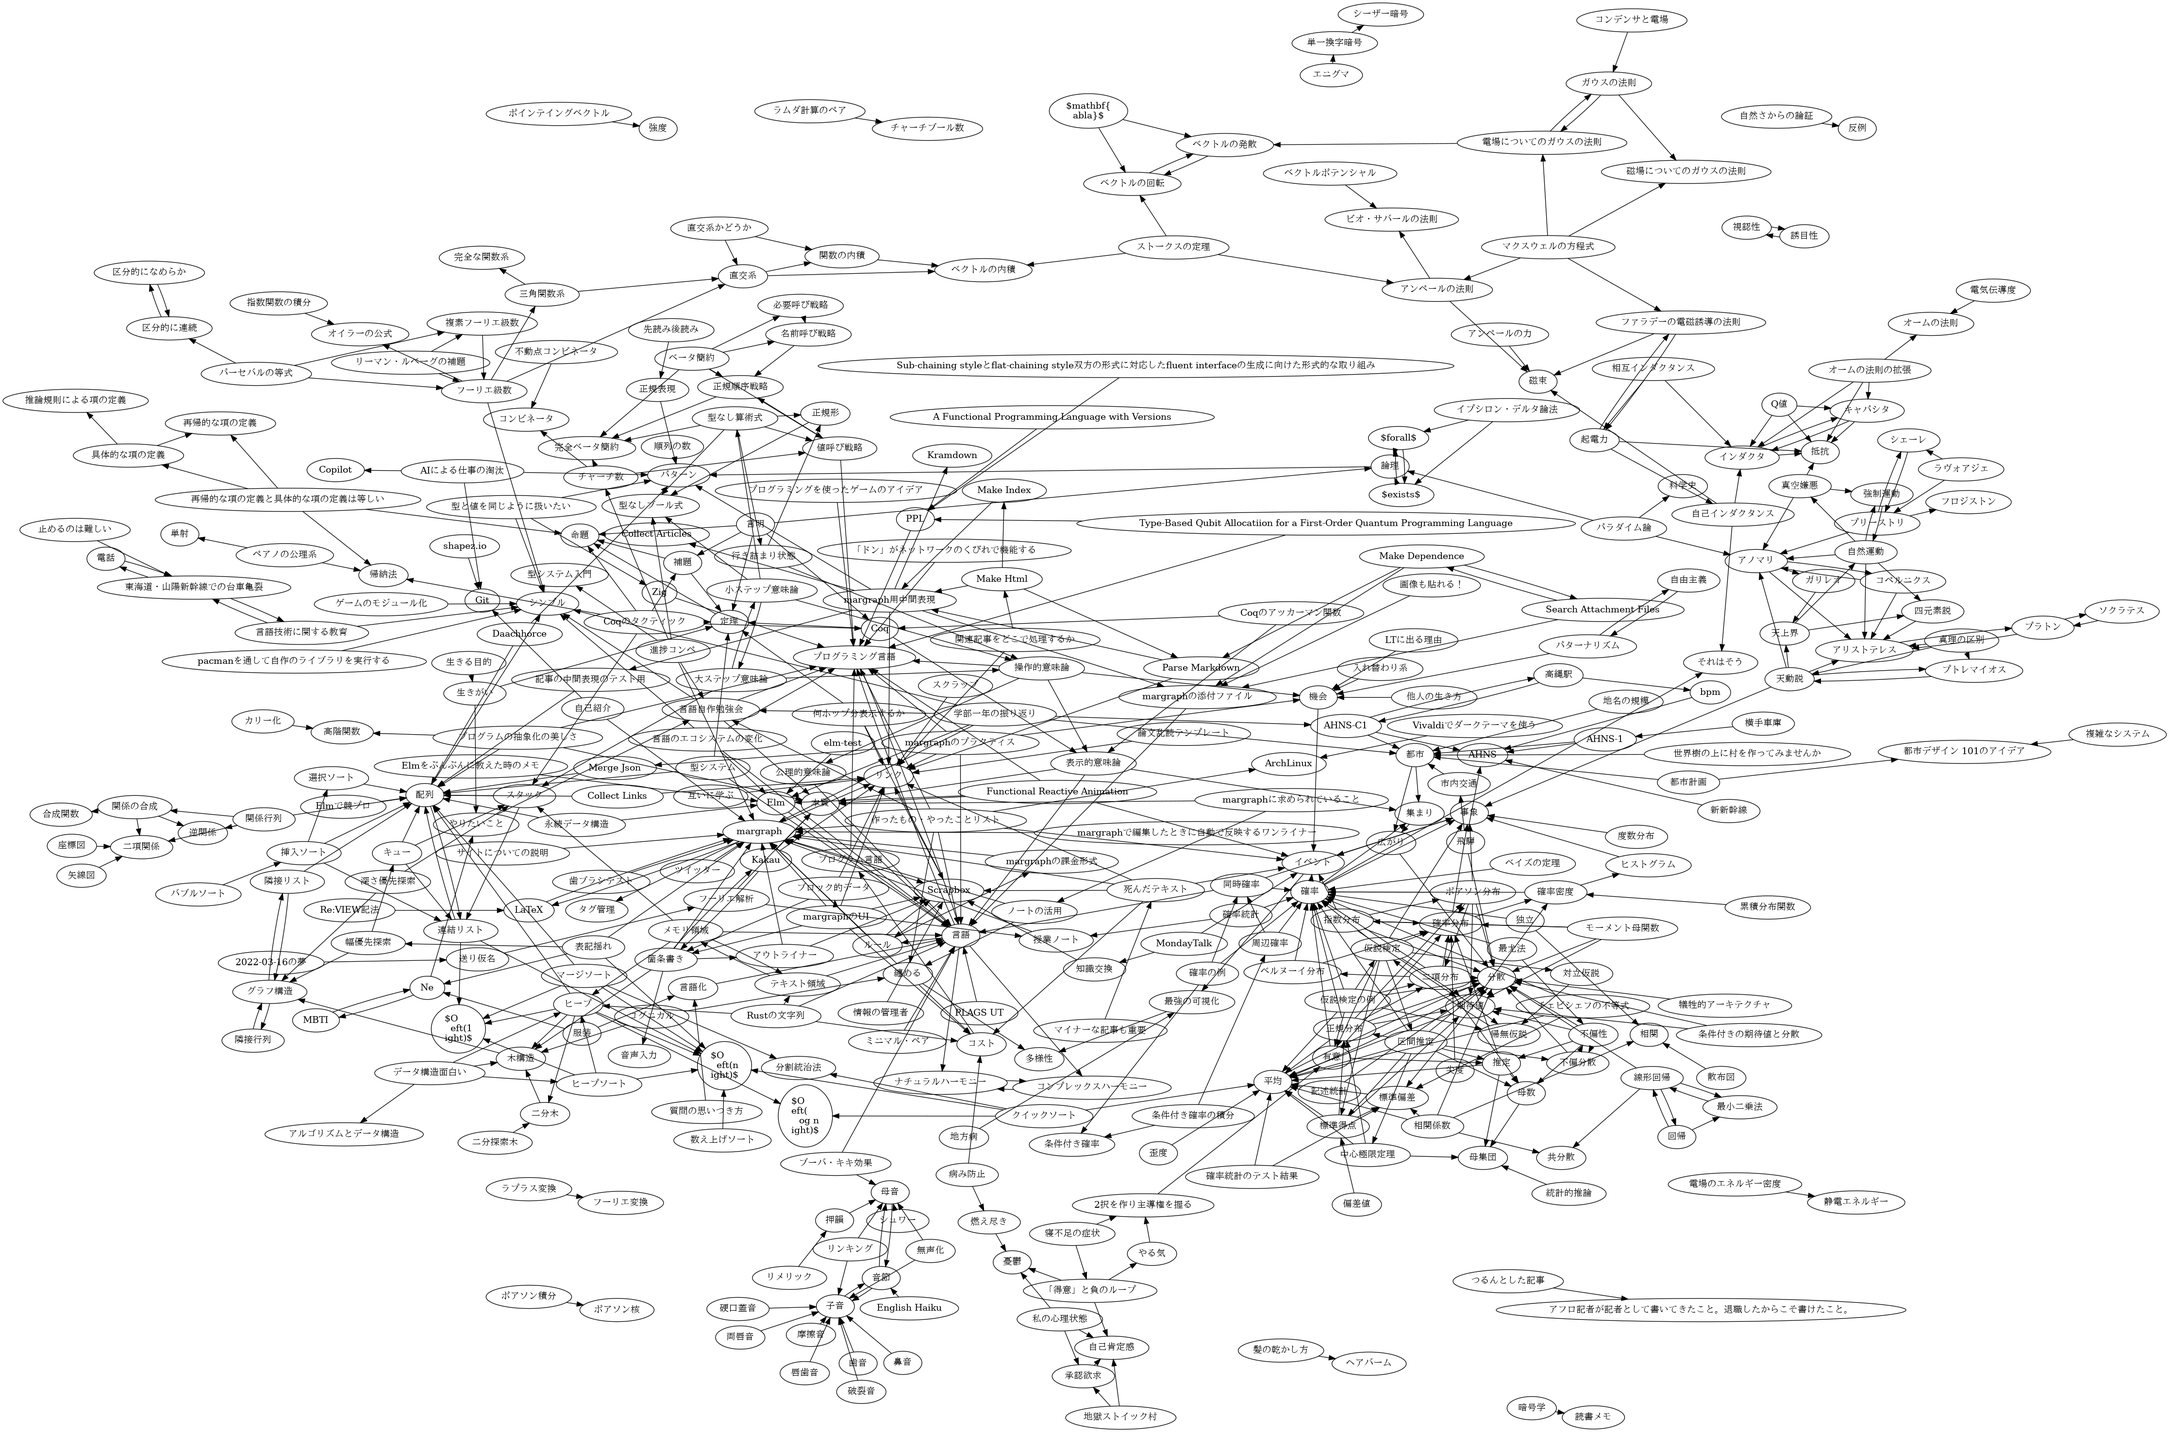
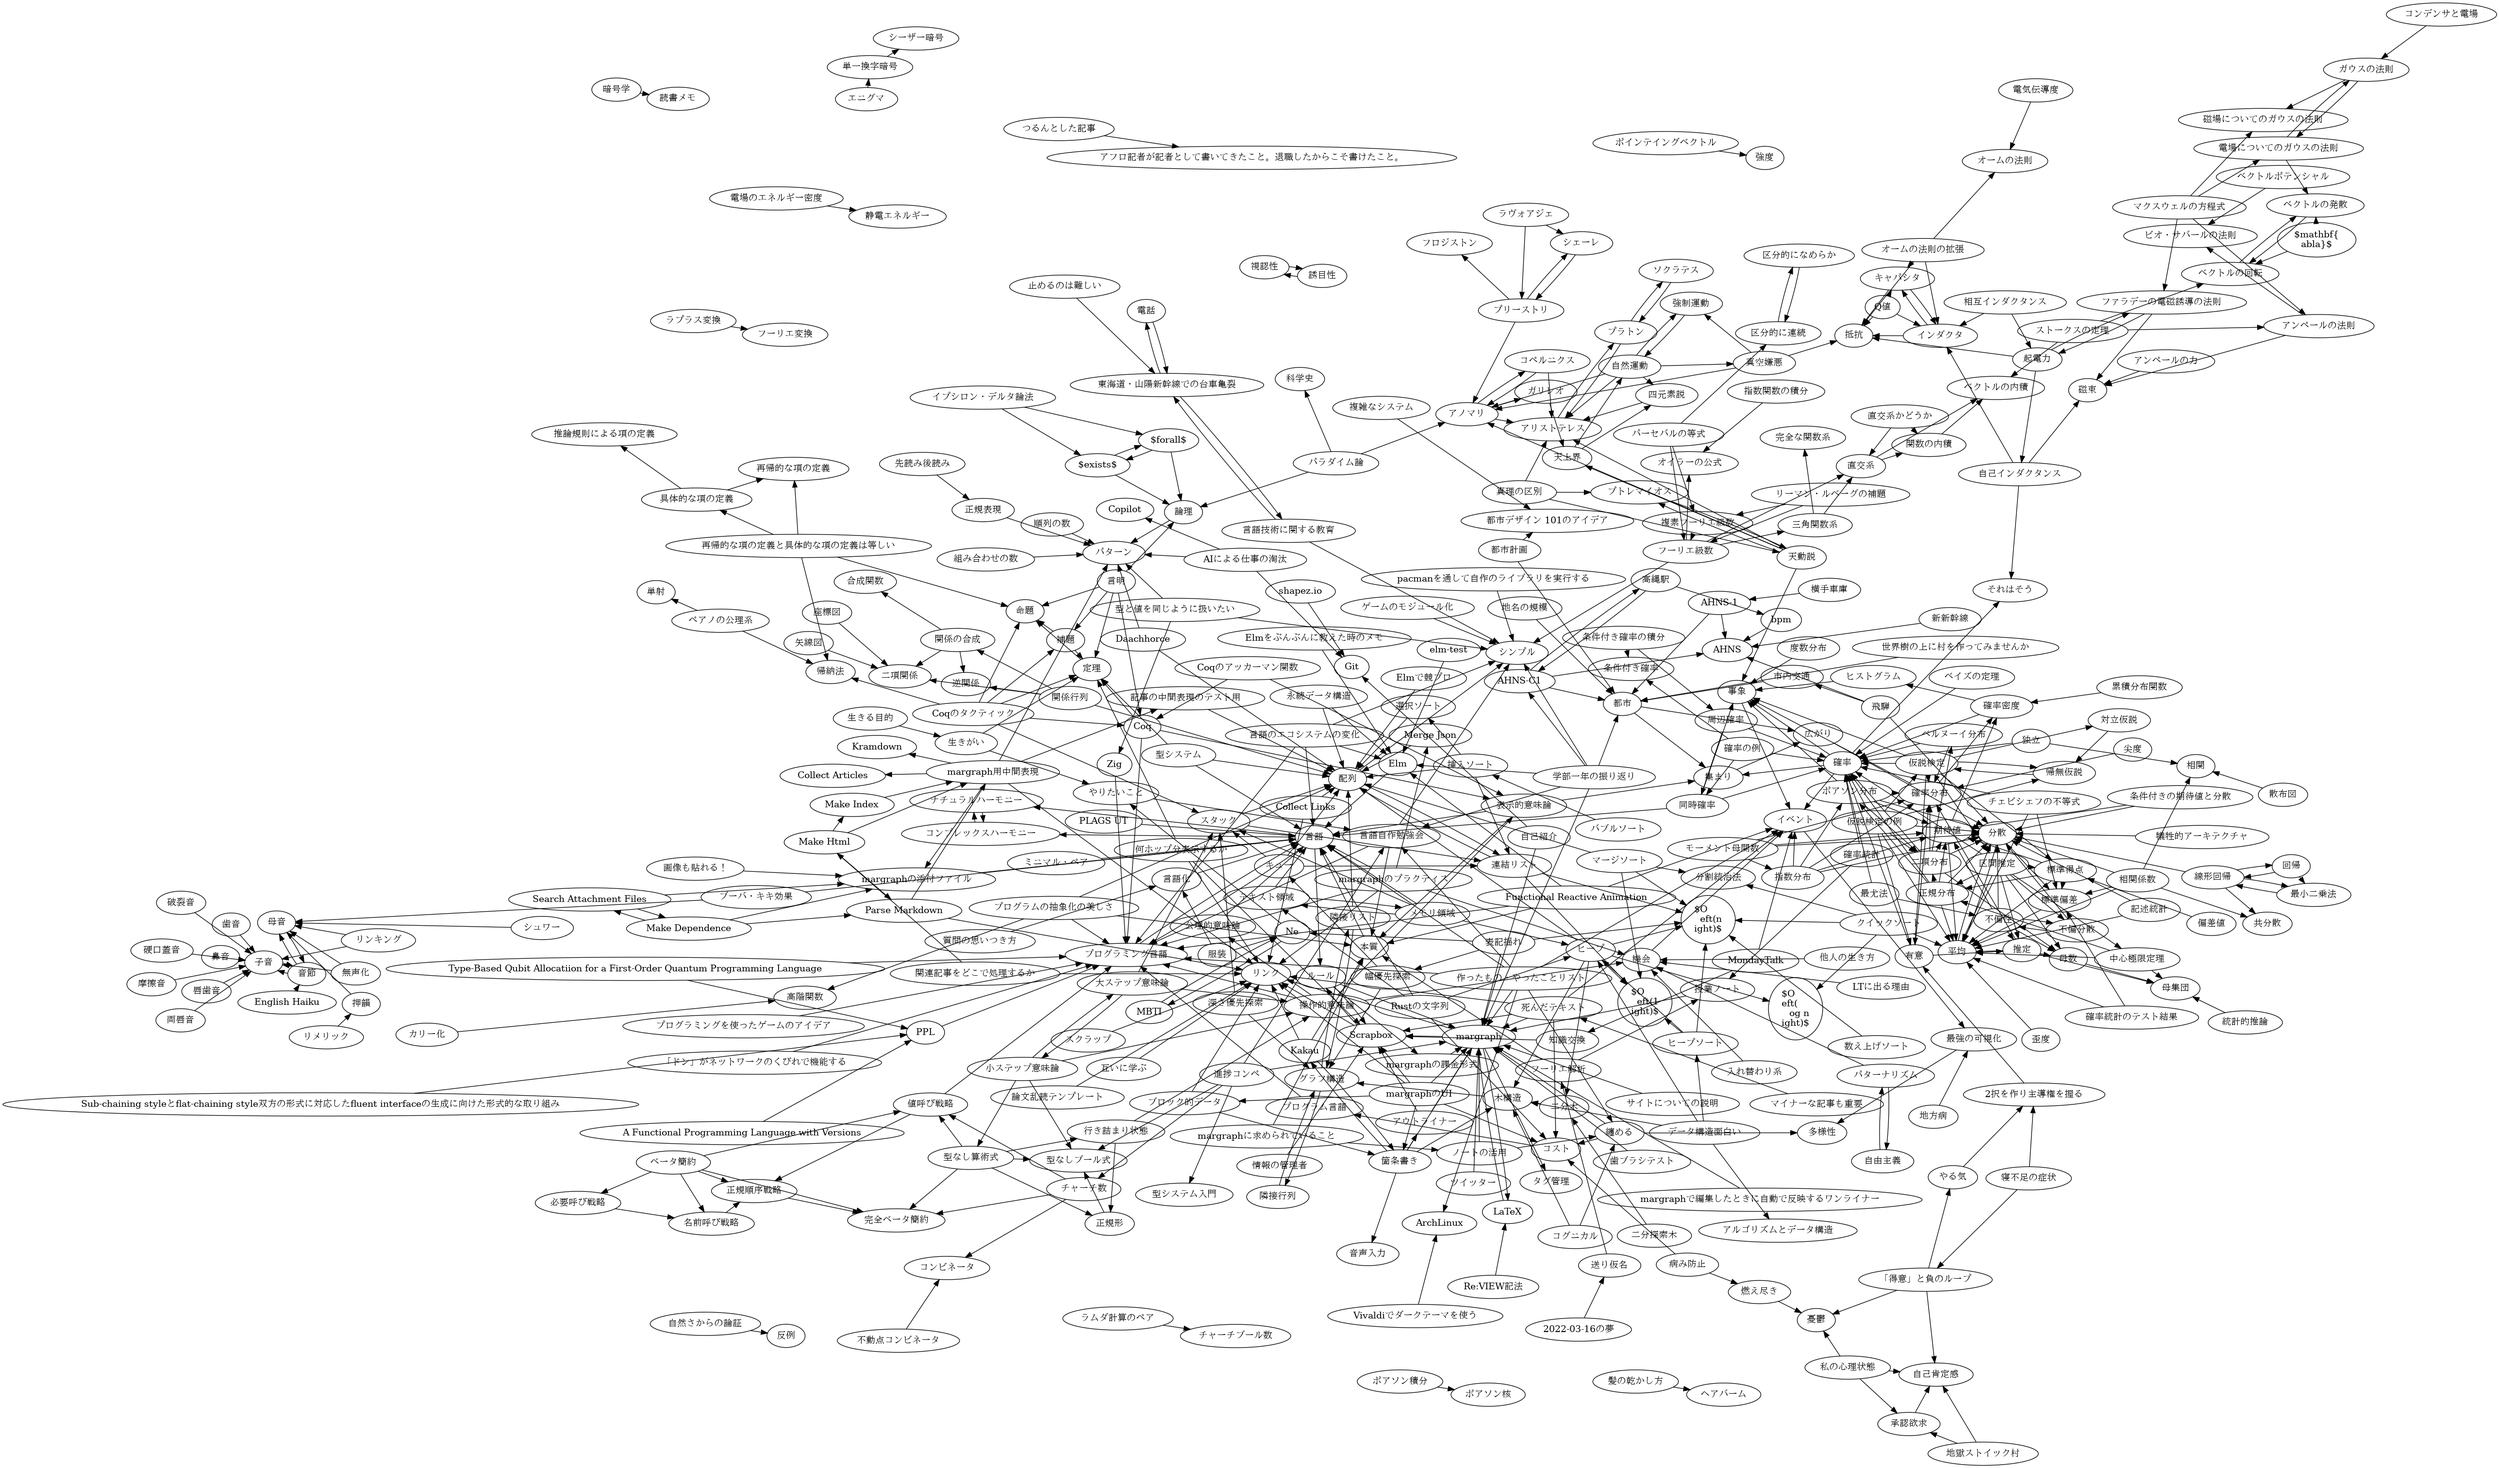
deploy: 5a8c458e684ae3f5186445241f8b9c1ca98c61d3

diff --git a/math/combination.html b/math/combination.html
@@ -33,7 +33,11 @@
         
             
               <div><ul>
-  <li>$_nC_r = \dfrac{n(n-1)(n-2) \cdots (n-r+1)}{1 \cdot 2 \cdots (r-1) \cdot r}$</li>
+  <li>n個あるものの中から順序を考えずr個取り出す<a href="../other/pattern.html">パターン</a>の数を数える
+    <ul>
+      <li>$_nC_r = \dfrac{n(n-1)(n-2) \cdots (n-r+1)}{1 \cdot 2 \cdots (r-1) \cdot r}$</li>
+    </ul>
+  </li>
   <li>二項係数とも呼ばれる</li>
   <li>パスカルの三角形の値はこれでも計算できる</li>
 </ul>
@@ -81,6 +85,81 @@
 
       
       <div class="link-network">
+        
+          <div class="row flex-nowrap overflow-auto">
+            <div class="col-4">
+              <div class="card h-100">
+                <div class="card-body">
+                  <h5 class="card-title fs-6"><a href="../other/pattern.html">パターン</a></h5>
+                  <p class="card-text">- 完全なパターンになったデザインを見た時、人は詳しくは見ない...</p>
+                </div>
+              </div>
+            </div>
+            
+              <div class="col-4">
+                <div class="card h-100">
+                  <div class="card-body">
+                    <h5 class="card-title fs-6"><a href="../long-tweets/2021-10-09.html">AIによる仕事の淘汰</a></h5>
+                    <p class="card-text">(Github Copilotを見て) うーん、仕事が無くなる...</p>
+                  </div>
+                </div>
+              </div>
+            
+              <div class="col-4">
+                <div class="card h-100">
+                  <div class="card-body">
+                    <h5 class="card-title fs-6"><a href="../margraph/design/110-intermediate-representation.html">margraph用中間表現</a></h5>
+                    <p class="card-text">工数は増えるけれど、これは疎結合・高凝縮性の確保のために必要な...</p>
+                  </div>
+                </div>
+              </div>
+            
+              <div class="col-4">
+                <div class="card h-100">
+                  <div class="card-body">
+                    <h5 class="card-title fs-6"><a href="../math/losistics.html">論理</a></h5>
+                    <p class="card-text">- $A \land B$   - AかつB   - Aが成り...</p>
+                  </div>
+                </div>
+              </div>
+            
+              <div class="col-4">
+                <div class="card h-100">
+                  <div class="card-body">
+                    <h5 class="card-title fs-6"><a href="../math/permutation.html">順列の数</a></h5>
+                    <p class="card-text">- $_nP_r  n(n-1)(n-2) \cdots (n...</p>
+                  </div>
+                </div>
+              </div>
+            
+              <div class="col-4">
+                <div class="card h-100">
+                  <div class="card-body">
+                    <h5 class="card-title fs-6"><a href="../programming/daachhorce.html">Daachhorce</a></h5>
+                    <p class="card-text">- ダークホース https://tech.legalforc...</p>
+                  </div>
+                </div>
+              </div>
+            
+              <div class="col-4">
+                <div class="card h-100">
+                  <div class="card-body">
+                    <h5 class="card-title fs-6"><a href="../programming/regexp.html">正規表現</a></h5>
+                    <p class="card-text">- 文字列を検索するために使う - 便利なので皆覚えよう！ -...</p>
+                  </div>
+                </div>
+              </div>
+            
+              <div class="col-4">
+                <div class="card h-100">
+                  <div class="card-body">
+                    <h5 class="card-title fs-6"><a href="../programming/type-and-value.html">型と値を同じように扱いたい</a></h5>
+                    <p class="card-text">- 型と値を同じように扱いたい   - よりシンプルに、抽象化...</p>
+                  </div>
+                </div>
+              </div>
+            
+          </div>
         
       </div>
       

diff --git a/other/pattern.html b/other/pattern.html
@@ -217,6 +217,18 @@
             <div class="col-4">
               <div class="card h-100">
                 <div class="card-body">
+                  <h5 class="card-title fs-6"><a href="../math/combination.html">組み合わせの数</a></h5>
+                  <p class="card-text">- n個あるものの中から順序を考えずr個取り出すパターンの数を...</p>
+                </div>
+              </div>
+            </div>
+            
+          </div>
+        
+          <div class="row flex-nowrap overflow-auto">
+            <div class="col-4">
+              <div class="card h-100">
+                <div class="card-body">
                   <h5 class="card-title fs-6"><a href="../math/losistics.html">論理</a></h5>
                   <p class="card-text">- $A \land B$   - AかつB   - Aが成り...</p>
                 </div>

diff --git a/margraph/design/110-intermediate-representation.html b/margraph/design/110-intermediate-representation.html
@@ -266,6 +266,15 @@
               <div class="col-4">
                 <div class="card h-100">
                   <div class="card-body">
+                    <h5 class="card-title fs-6"><a href="../../math/combination.html">組み合わせの数</a></h5>
+                    <p class="card-text">- n個あるものの中から順序を考えずr個取り出すパターンの数を...</p>
+                  </div>
+                </div>
+              </div>
+            
+              <div class="col-4">
+                <div class="card h-100">
+                  <div class="card-body">
                     <h5 class="card-title fs-6"><a href="../../math/losistics.html">論理</a></h5>
                     <p class="card-text">- $A \land B$   - AかつB   - Aが成り...</p>
                   </div>

diff --git a/long-tweets/2021-10-09.html b/long-tweets/2021-10-09.html
@@ -176,6 +176,15 @@
               <div class="col-4">
                 <div class="card h-100">
                   <div class="card-body">
+                    <h5 class="card-title fs-6"><a href="../math/combination.html">組み合わせの数</a></h5>
+                    <p class="card-text">- n個あるものの中から順序を考えずr個取り出すパターンの数を...</p>
+                  </div>
+                </div>
+              </div>
+            
+              <div class="col-4">
+                <div class="card h-100">
+                  <div class="card-body">
                     <h5 class="card-title fs-6"><a href="../math/losistics.html">論理</a></h5>
                     <p class="card-text">- $A \land B$   - AかつB   - Aが成り...</p>
                   </div>

diff --git a/math/permutation.html b/math/permutation.html
@@ -115,6 +115,15 @@
               <div class="col-4">
                 <div class="card h-100">
                   <div class="card-body">
+                    <h5 class="card-title fs-6"><a href="../math/combination.html">組み合わせの数</a></h5>
+                    <p class="card-text">- n個あるものの中から順序を考えずr個取り出すパターンの数を...</p>
+                  </div>
+                </div>
+              </div>
+            
+              <div class="col-4">
+                <div class="card h-100">
+                  <div class="card-body">
                     <h5 class="card-title fs-6"><a href="../math/losistics.html">論理</a></h5>
                     <p class="card-text">- $A \land B$   - AかつB   - Aが成り...</p>
                   </div>

diff --git a/programming/daachhorce.html b/programming/daachhorce.html
@@ -134,6 +134,15 @@
               <div class="col-4">
                 <div class="card h-100">
                   <div class="card-body">
+                    <h5 class="card-title fs-6"><a href="../math/combination.html">組み合わせの数</a></h5>
+                    <p class="card-text">- n個あるものの中から順序を考えずr個取り出すパターンの数を...</p>
+                  </div>
+                </div>
+              </div>
+            
+              <div class="col-4">
+                <div class="card h-100">
+                  <div class="card-body">
                     <h5 class="card-title fs-6"><a href="../math/losistics.html">論理</a></h5>
                     <p class="card-text">- $A \land B$   - AかつB   - Aが成り...</p>
                   </div>

diff --git a/programming/regexp.html b/programming/regexp.html
@@ -124,6 +124,15 @@
               <div class="col-4">
                 <div class="card h-100">
                   <div class="card-body">
+                    <h5 class="card-title fs-6"><a href="../math/combination.html">組み合わせの数</a></h5>
+                    <p class="card-text">- n個あるものの中から順序を考えずr個取り出すパターンの数を...</p>
+                  </div>
+                </div>
+              </div>
+            
+              <div class="col-4">
+                <div class="card h-100">
+                  <div class="card-body">
                     <h5 class="card-title fs-6"><a href="../math/losistics.html">論理</a></h5>
                     <p class="card-text">- $A \land B$   - AかつB   - Aが成り...</p>
                   </div>

diff --git a/programming/type-and-value.html b/programming/type-and-value.html
@@ -239,6 +239,15 @@
               <div class="col-4">
                 <div class="card h-100">
                   <div class="card-body">
+                    <h5 class="card-title fs-6"><a href="../math/combination.html">組み合わせの数</a></h5>
+                    <p class="card-text">- n個あるものの中から順序を考えずr個取り出すパターンの数を...</p>
+                  </div>
+                </div>
+              </div>
+            
+              <div class="col-4">
+                <div class="card h-100">
+                  <div class="card-body">
                     <h5 class="card-title fs-6"><a href="../math/losistics.html">論理</a></h5>
                     <p class="card-text">- $A \land B$   - AかつB   - Aが成り...</p>
                   </div>

diff --git a/math/losistics.html b/math/losistics.html
@@ -270,6 +270,15 @@
               <div class="col-4">
                 <div class="card h-100">
                   <div class="card-body">
+                    <h5 class="card-title fs-6"><a href="../math/combination.html">組み合わせの数</a></h5>
+                    <p class="card-text">- n個あるものの中から順序を考えずr個取り出すパターンの数を...</p>
+                  </div>
+                </div>
+              </div>
+            
+              <div class="col-4">
+                <div class="card h-100">
+                  <div class="card-body">
                     <h5 class="card-title fs-6"><a href="../math/permutation.html">順列の数</a></h5>
                     <p class="card-text">- $_nP_r  n(n-1)(n-2) \cdots (n...</p>
                   </div>
